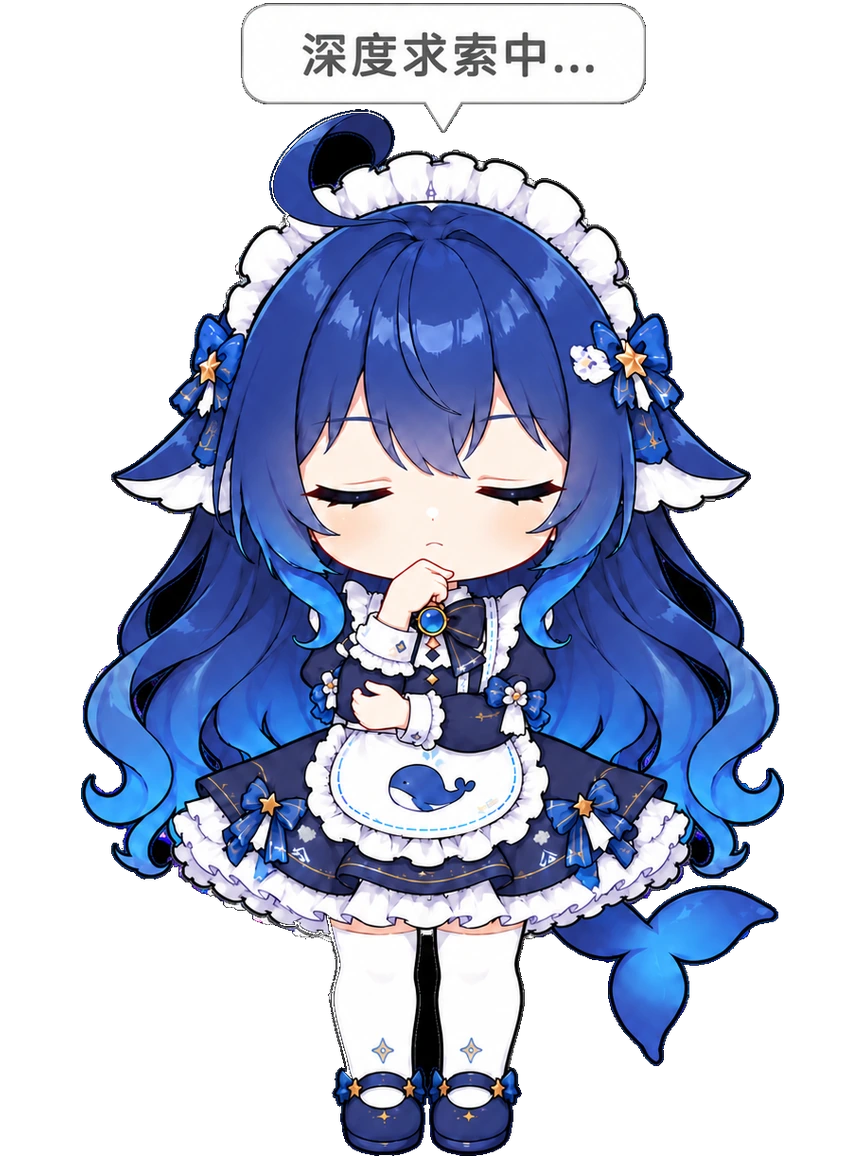
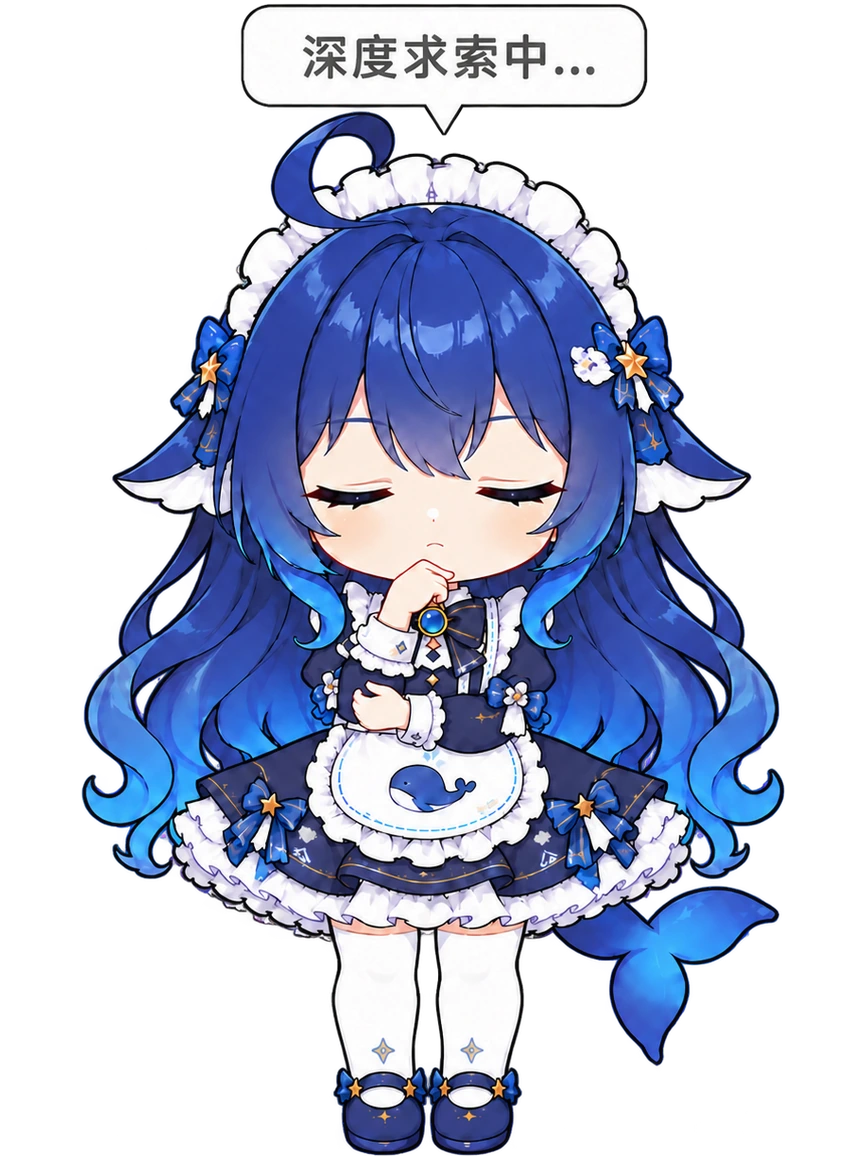
思考中循环段换新版素材（3 帧、透明底）
用户给了新版 `thinking.zip`（3 帧、RGBA 真透明，不再是黑底），要求"调整画质和
其他素材保持一致"。

## 加工

新素材已经是透明底，**不需要抠图** —— 给 `prepare-thinking-raw.py` 加了
`is_transparent()` 判断：透明素材原样沿用，只有黑底素材才走键控。
这样既不会把新素材的暗部当背景吃掉，也保留了老素材的处理路径。

气泡"深度求索中…"是素材原本的内容，照旧保留（上次误删已恢复）。

## 尺寸

`match_head_to: stand`，自动缩放 0.9444（内容 745x1222 含气泡，可用高度 1154），
脚底对齐 1155（偏差 0）。

头部比例：循环段"脸宽"188~198，进入/退出 206，站立 237 —— 这个指标受姿势影响
（新版是双手合在脸前、头发收拢），视觉上四段大小一致（见对比图）。

## 修掉一个构建脚本缺陷

帧数从 4 → 3 时，旧的 `frame_04.webp` 留在输出目录里，`manifest.frameCount=3`
与磁盘 4 个文件对不上，test-animations 直接红。
现在 `build_one` 写新帧前先清空旧的 `frame_*.png/webp`（manifest 不删，会整体重写）。

## 修掉一条偶发用例

「闲置到达门槛时触发动作」偶发失败。根因是用例只看 `lastPlayedActionId`，
而随机抽到**坐下/睡觉**时走的是状态机（enterSit/enterSleep），表现成
`petState=sitting`、动画在播，但该字段不一定更新 —— 于是"确实触发了"被判成没触发。
改成判断"现在有随机动作在演"（动作在播 / 进入坐姿 / 进入睡眠，任一成立）。

## 验证

· npm test：23 组 247 条全绿
· 自测：285/286（唯一失败是那条已知偶发的命中滞回断言）
· test-animations：21/21（帧数自洽、脚底一致）

diff --git a/pet-app/main.js b/pet-app/main.js
@@ -4246,10 +4246,31 @@ async function verifyIdleTriggerRule(check, wait) {
   await wc.executeJavaScript('window.__petTestIdleTickNow()', true)
   await wait(300)
   const after2 = await readState()
+  /*
+   * ⚠ 不能只看 `lastPlayedActionId` 有没有变。
+   *
+   * 随机抽到**坐下 / 睡觉**时走的是状态机（enterSit / enterSleep），
+   * 它们**不经过 `playAction`**，所以 `lastPlayedActionId` 不会更新 ——
+   * 于是"确实触发了"却被判成没触发。这是真出现过的偶发误判
+   * （同一份代码一轮过、一轮红，取决于随机抽中哪个）。
+   *
+   * 正确的判据是"现在有随机动作在演"：动作在播 / 进入坐姿 / 进入睡眠，任一成立即可。
+   */
+  const playingSomeAction = Boolean(after2)
+    && (
+      after2.lastPlayedActionId !== before1
+      || (after2.currentActionId !== null && after2.currentActionId !== undefined)
+      || after2.petState === 'sitting'
+      || after2.petState === 'sleeping'
+      || (after2.activeAnimationId && after2.activeAnimationId !== 'stand')
+    )
   check(
     '闲置到达 1 分钟且概率命中时触发动作',
-    after2.lastPlayedActionId !== before1 && after2.lastPlayedActionId !== null,
-    `lastPlayedActionId=${String(after2.lastPlayedActionId)}，动画=${String(after2.activeAnimationId)}`,
+    playingSomeAction,
+    `lastPlayedActionId=${String(after2 && after2.lastPlayedActionId)}，`
+      + `动作=${String(after2 && after2.currentActionId)}，`
+      + `petState=${String(after2 && after2.petState)}，`
+      + `动画=${String(after2 && after2.activeAnimationId)}`,
   )
   // 收尾：停下这个动作，避免影响后续断言。
   testPushState({ workStatus: 'thinking', workLabel: '思考中…', seq: 9101 })

diff --git a/scripts/dev/prepare-thinking-raw.py b/scripts/dev/prepare-thinking-raw.py
@@ -138,28 +138,48 @@ def bubble_mask(lum, existing_bg):
     return np.asarray(cm) > 128
 
 
+def is_transparent(img):
+    """这张图本身就已经抠好了吗（有真正的透明通道）？
+
+    素材有两代：
+      · 老版 thinking.zip：RGB 黑底（alpha 全 255）→ 需要抠；
+      · 新版（2026-10-20）：RGBA 透明底 → **原样使用**，只由构建脚本压成 WebP。
+    不能无条件抠黑底：对透明素材跑一遍键控会把暗部当背景吃掉。
+    """
+    if img.mode not in ("RGBA", "LA"):
+        return False
+    alpha = np.asarray(img.convert("RGBA"))[:, :, 3]
+    return float(np.mean(alpha <= 8)) > 0.05
+
+
 def process_loop(src, dst, preview_name=None):
-    img = Image.open(src).convert("RGB")
-    rgba, bg = key_black(img)
-    a = np.asarray(rgba).astype(np.uint8)
+    img = Image.open(src)
+    if is_transparent(img):
+        # 已经是透明素材：原样另存，不做任何像素级改动（气泡等内容一律保留）。
+        out = img.convert("RGBA")
+        out.save(dst)
+        print(f"    · {os.path.basename(src)} 已是透明素材，原样沿用")
+    else:
+        rgba, bg = key_black(img.convert("RGB"))
+        a = np.asarray(rgba).astype(np.uint8)
 
-    if REMOVE_BUBBLE:
-        rgb = np.asarray(img.convert("RGB")).astype(np.int16)
-        lum = luminance(rgb)
-        sat = rgb.max(axis=2) - rgb.min(axis=2)
+        if REMOVE_BUBBLE:
+            rgb = np.asarray(img.convert("RGB")).astype(np.int16)
+            lum = luminance(rgb)
+            sat = rgb.max(axis=2) - rgb.min(axis=2)
 
-        # 1) 气泡本体（白块 + 文字）
-        bub = bubble_mask(lum, bg)
-        a[bub, 3] = 0
+            # 1) 气泡本体（白块 + 文字）
+            bub = bubble_mask(lum, bg)
+            a[bub, 3] = 0
 
-        # 2) 气泡投影：顶部窗口里"低饱和 + 中低亮度"的像素一并清掉
-        win = np.zeros(lum.shape, dtype=bool)
-        win[: min(lum.shape[0], BUBBLE_MAX_Y), :] = True
-        shadow = win & (lum <= SHADOW_MAX_LUM) & (sat <= SHADOW_MAX_SAT)
-        a[shadow, 3] = 0
+            # 2) 气泡投影：顶部窗口里"低饱和 + 中低亮度"的像素一并清掉
+            win = np.zeros(lum.shape, dtype=bool)
+            win[: min(lum.shape[0], BUBBLE_MAX_Y), :] = True
+            shadow = win & (lum <= SHADOW_MAX_LUM) & (sat <= SHADOW_MAX_SAT)
+            a[shadow, 3] = 0
 
-    out = Image.fromarray(a, "RGBA")
-    out.save(dst)
+        out = Image.fromarray(a, "RGBA")
+        out.save(dst)
 
     if preview_name:
         small = out.resize((400, round(out.height * 400 / out.width)), Image.LANCZOS)

diff --git a/scripts/dev/build-action-asset.py b/scripts/dev/build-action-asset.py
@@ -443,6 +443,17 @@ def build_one(action_id):
     out_dir = os.path.join(ROOT, "assets", "animations", action_id)
     foot_out = standing_foot_output()
 
+    # 先清掉输出目录里**旧的成品帧**。
+    #
+    # 为什么必须清：帧数可能变少（实测：思考循环从 4 帧换成 3 帧，
+    # 结果旧的 frame_04 留了下来，`manifest.frameCount=3` 与磁盘上的 4 个文件
+    # 对不上，test-animations 直接红）。写新帧时只覆盖同名的，多出来的不会自己消失。
+    # manifest.json 不删 —— 它会被完整重写。
+    if os.path.isdir(out_dir):
+        for f in os.listdir(out_dir):
+            if f.startswith("frame_") and (f.endswith(".png") or f.endswith(".webp")):
+                os.remove(os.path.join(out_dir, f))
+
     names = sorted(
         (f for f in os.listdir(raw_dir) if f.endswith(".png") and f[:-4].isdigit()),
         key=lambda f: int(f[:-4]),

diff --git a/CHANGELOG.md b/CHANGELOG.md
@@ -34,17 +34,20 @@
 - 交付包内附 `V<版本>-更新日志.md`，拿到 zip 就能看这版改了什么。
 - 更新日志同时导出 `.txt`（记事本可直接看）与 `.docx`（Word）两个版本。
 - 另出一份 `全部更新日志`（md / txt / docx），按版本从新到旧汇总所有历史记录。
-- 深度思考动作补上素材：进入 6 帧 → 循环 4 帧 → 退出倒放 6 帧，被打断时按 6→1 收回。
+- 深度思考动作补上素材：进入 6 帧 → 循环 3 帧 → 退出倒放 6 帧，被打断时按 6→1 收回。
+- 思考中循环段换成新版素材（3 帧、透明底），气泡原样保留。
 - 坐下循环段换成新素材 `sit_circle_new`（12 帧），体宽从 219 增到 240，与坐下/站起衔接一致。
 
 ### 修复
 
 - 思考的收尾定时器会误切后续动作（点击/拖拽播到一半跳回站立），已加版本号与"当前动作"双重校验。
 - 深度思考循环段的气泡被我误删，已恢复：气泡是素材原本的内容，只抠黑底、不动画内容。
+- 重新生成素材时旧的成品帧不会被清理，帧数变少就会与 manifest 对不上，已改成先清空再写。
+- 「闲置触发动作」用例只看 lastPlayedActionId，而随机抽到坐下/睡觉走状态机、不改该字段，导致偶发误判。
 - 闲置触发用例的前置清理少了"退出深度思考"，导致该断言偶发失败（思考期间随机动作被门控）。
 
-
 ---
+
 
 ## [0.2.0] - 2026-10-18
 
